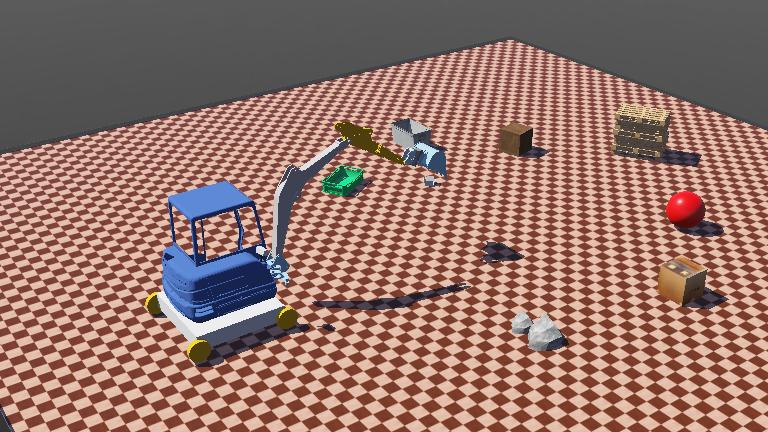
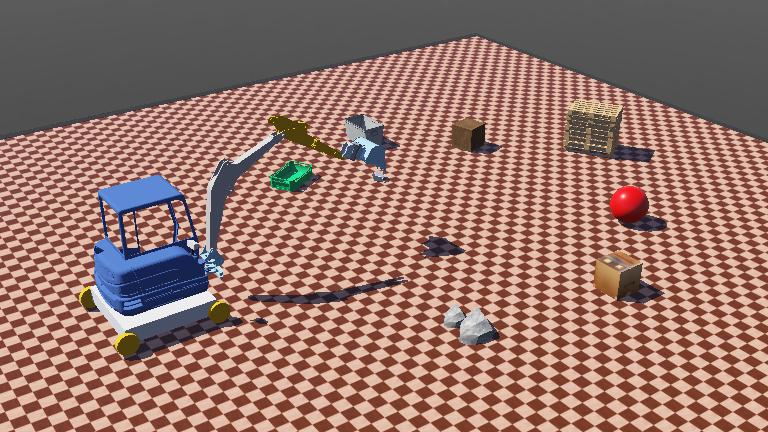
checkpoint: digging is pending

diff --git a/controllers/conventional_color_control/conventional_color_control.py b/controllers/conventional_color_control/conventional_color_control.py
@@ -15,6 +15,9 @@ import numpy as np
 from controller import Supervisor, Display
 
 
+MAX_MOTOR_SPEED = 0.7
+
+
 class ConventionalControl(Supervisor):
     def __init__(self):
         # Initialize the robot instance and timestep
@@ -23,7 +26,7 @@ class ConventionalControl(Supervisor):
         random.seed(42)
 
         # set the speed of the motors
-        self.max_motor_speed = 0.7
+        self.max_motor_speed = MAX_MOTOR_SPEED
         self.max_wheel_speed = 7.0
 
         # set the threshold of the target area
@@ -92,6 +95,7 @@ class ConventionalControl(Supervisor):
 
             if done:
                 print("sip.")
+                # self.digging_operation()
                 exit(1)
 
     def get_and_display_obs(self, width, height, frame_area):
@@ -137,8 +141,6 @@ class ConventionalControl(Supervisor):
                 target_area, centroid = self.recognition_process(
                     self.state, width, height, frame_area
                 )
-
-            # self.objects_recognition(objects, width, target_area)
 
         return self.state, target_area, centroid
 
@@ -227,28 +229,6 @@ class ConventionalControl(Supervisor):
 
         return target_area, centroid
 
-    def objects_recognition(self, objects, width, target_area):
-        for obj in objects:
-            for i in range(obj.getNumberOfColors()):
-                r, g, b = obj.getColors()[3 * i : 3 * i + 3]
-                print(f"Color {i + 1}/{obj.getNumberOfColors()}: {r} {g} {b}")
-
-                if r == 1 and g == 0 and b == 0:
-                    print("Target found, determining position...")
-                    print(f"Target area: {target_area*100:.2f}% of the frame")
-
-                    position_on_image = obj.getPositionOnImage()
-                    obj_x, obj_y = position_on_image[0], position_on_image[1]
-
-                    print(f"Object position on image: x={obj_x}, y={obj_y}")
-
-                    if obj_x < width / 3:
-                        self.turn_left()
-                    elif obj_x < 2 * width / 3:
-                        self.run_wheels(self.max_wheel_speed, "all")
-                    else:
-                        self.turn_right()
-
     def is_done(self, target_area, threshold=0.25, centroid=[None, None]):
         x_threshold = [
             self.center_x - self.tolerance_x,
@@ -293,6 +273,175 @@ class ConventionalControl(Supervisor):
 
     def stop_robot(self):
         self.run_wheels(0.0, "all")
+
+    # 0 is left, 1 is right
+    def move_arm_connector(
+        self,
+        direction,
+        min_position=-1.1,
+        max_position=1.1,
+        velocity=MAX_MOTOR_SPEED,
+        toCenter=False,
+    ):
+        current_position = self.sensors["arm_connector"].getValue()
+
+        if toCenter:
+            tolerance = 0.001
+            if current_position > tolerance or current_position < -tolerance:
+                self.motors["arm_connector"].setVelocity(
+                    velocity * (1 if current_position < 0 else -1)
+                )
+            elif current_position < tolerance or current_position > -tolerance:
+                self.motors["arm_connector"].setVelocity(0.0)
+        else:
+            # Check if the motor is within the defined range
+            if min_position <= current_position <= max_position:
+                self.motors["arm_connector"].setVelocity(
+                    velocity * (1 if direction == 0 else -1)
+                )
+            else:
+                self.motors["arm_connector"].setVelocity(0.0)
+
+    # 0 is down, 1 is up
+    def move_lower_arm(
+        self, direction, min_position=-0.27, max_position=0.27, velocity=MAX_MOTOR_SPEED
+    ):
+        current_position = self.sensors["lower_arm"].getValue()
+
+        # Check if the motor is within the defined range
+        if min_position <= current_position <= max_position:
+            self.motors["lower_arm"].setVelocity(
+                velocity * (1 if direction == 0 else -1)
+            )
+        else:
+            self.motors["lower_arm"].setVelocity(0.0)
+
+    # 0 is down, 1 is up
+    def move_uppertolow(
+        self, direction, min_position=-0.9, max_position=0.9, velocity=MAX_MOTOR_SPEED
+    ):
+        current_position = self.sensors["uppertolow"].getValue()
+
+        # Check if the motor is within the defined range
+        if min_position <= current_position <= max_position:
+            self.motors["uppertolow"].setVelocity(
+                velocity * (1 if direction == 0 else -1)
+            )
+        else:
+            self.motors["uppertolow"].setVelocity(0.0)
+
+    # 0 is inside, 1 is outside
+    def move_scoop(
+        self,
+        direction,
+        min_position=-1.1,
+        max_position=1.1,
+        velocity=MAX_MOTOR_SPEED + 0.5,
+    ):
+        current_position = self.sensors["scoop"].getValue()
+
+        # Check if the motor is within the defined range
+        if min_position <= current_position <= max_position:
+            self.motors["scoop"].setVelocity(velocity * (1 if direction == 0 else -1))
+        else:
+            self.motors["scoop"].setVelocity(0.0)
+
+    def digging_operation(self):
+        initial_positions = {
+            "scoop": self.sensors["scoop"].getValue(),
+            "lower_arm": self.sensors["lower_arm"].getValue(),
+            "uppertolow": self.sensors["uppertolow"].getValue(),
+            "arm_connector": self.sensors["arm_connector"].getValue(),
+        }
+
+        targets = {
+            "scoop": 1.0,
+            "lower_arm": 0.1,
+            "uppertolow": 0.45,
+        }
+
+        step = 0
+        delay_start_time = None
+
+        while True:
+            current_positions = {
+                "scoop": self.sensors["scoop"].getValue(),
+                "lower_arm": self.sensors["lower_arm"].getValue(),
+                "uppertolow": self.sensors["uppertolow"].getValue(),
+            }
+
+            if step == 0:
+                # Adjust the target for uppertolow
+                adjusted_targets = {
+                    "scoop": -targets["scoop"],
+                    "lower_arm": -targets["lower_arm"],
+                    "uppertolow": -targets["uppertolow"],
+                }
+
+                self.move_scoop(
+                    0,
+                    min_position=initial_positions["scoop"],
+                    max_position=adjusted_targets["scoop"],
+                )
+                self.move_lower_arm(
+                    0,
+                    min_position=initial_positions["lower_arm"],
+                    max_position=adjusted_targets["lower_arm"],
+                )
+                self.move_uppertolow(1, min_position=adjusted_targets["uppertolow"])
+                self.move_arm_connector(1, toCenter=True)
+
+                print(f"Current positions: {current_positions}")
+                print(f"Adjusted targets: {adjusted_targets}")
+
+                # Check if all the joints have reached or exceeded their adjusted targets
+                if all(
+                    current_positions[joint] >= adjusted_targets[joint]
+                    for joint in adjusted_targets
+                ):
+                    delay_start_time = self.getTime()
+                    print("Step 0 done.")
+                    step = 1
+
+            elif step == 1:
+                print("Step 1")
+                if self.getTime() - delay_start_time >= 2.0:
+                    step = 2
+
+            elif step == 2:
+                print("Step 2")
+                # Move down
+                self.move_scoop(0, max_position=targets["scoop"] - 0.5)
+                self.move_lower_arm(0, max_position=targets["lower_arm"] - 0.1)
+                self.move_uppertolow(0, max_position=targets["uppertolow"])
+                self.move_arm_connector(1, toCenter=True)
+
+                adjusted_targets = {
+                    "lower_arm": targets["lower_arm"] - 0.1,
+                    "scoop": targets["scoop"] - 0.5,
+                }
+                # Check if all the joints have reached or exceeded their adjusted targets
+                if all(
+                    current_positions[joint] <= adjusted_targets.get(joint, target)
+                    for joint, target in adjusted_targets.items()
+                ):
+                    print("Step 2 done.")
+                    delay_start_time = self.getTime()
+                    step = 3
+
+            elif step == 3:
+                if self.getTime() - delay_start_time >= 1.0:
+                    return [
+                        initial_positions[joint]
+                        for joint in [
+                            "arm_connector",
+                            "lower_arm",
+                            "uppertolow",
+                            "scoop",
+                        ]
+                    ]
+
+            self.step(self.timestep)
 
 
 if __name__ == "__main__":

diff --git a/controllers/obs_controller/obs_controller.py b/controllers/obs_controller/obs_controller.py
@@ -249,27 +249,27 @@ start_time = robot.getTime()
 
 while robot.step(timestep) != -1:
     # Set velocity for the first 3 seconds, then stop
-    duration = robot.getTime() - start_time
+    # duration = robot.getTime() - start_time
 
-    if duration <= 5.0:
-        move_turret_to_angle(90, initial_turret_position)
-    #     move_arm_connector(1)
-    # run_all_wheels(1.0)
-    # motors["turret"].setVelocity(0.2)
-    elif duration > 5.0 and duration <= 20.0:
-        move_turret_to_angle(-10)
-    #     move_arm_connector(0, toCenter=True)
-    # run_all_wheels(0.0)
-    # motors["turret"].setVelocity(0.0)
-    # elif duration >= 5.0 and duration <= 8.0:
-    # run_all_wheels(-1.0)
+    # if duration <= 5.0:
+    #     move_turret_to_angle(90, initial_turret_position)
+    # #     move_arm_connector(1)
+    # # run_all_wheels(1.0)
+    # # motors["turret"].setVelocity(0.2)
+    # elif duration > 5.0 and duration <= 20.0:
+    #     move_turret_to_angle(-10)
+    # #     move_arm_connector(0, toCenter=True)
+    # # run_all_wheels(0.0)
+    # # motors["turret"].setVelocity(0.0)
+    # # elif duration >= 5.0 and duration <= 8.0:
+    # # run_all_wheels(-1.0)
 
-    elif duration > 20.0:
-        motors["turret"].setVelocity(0.0)
+    # elif duration > 20.0:
+    #     motors["turret"].setVelocity(0.0)
 
-    run_all_wheels(5.0)
+    # run_all_wheels(5.0)
     # move_turret_to_angle(90)
-    # step_position = digging_operation()
-    # print(step_position)
-    # exit(1)
+    step_position = digging_operation()
+    print(step_position)
+    exit(1)
     # print(f"turret: {math.degrees(sensors['turret'].getValue())}")
